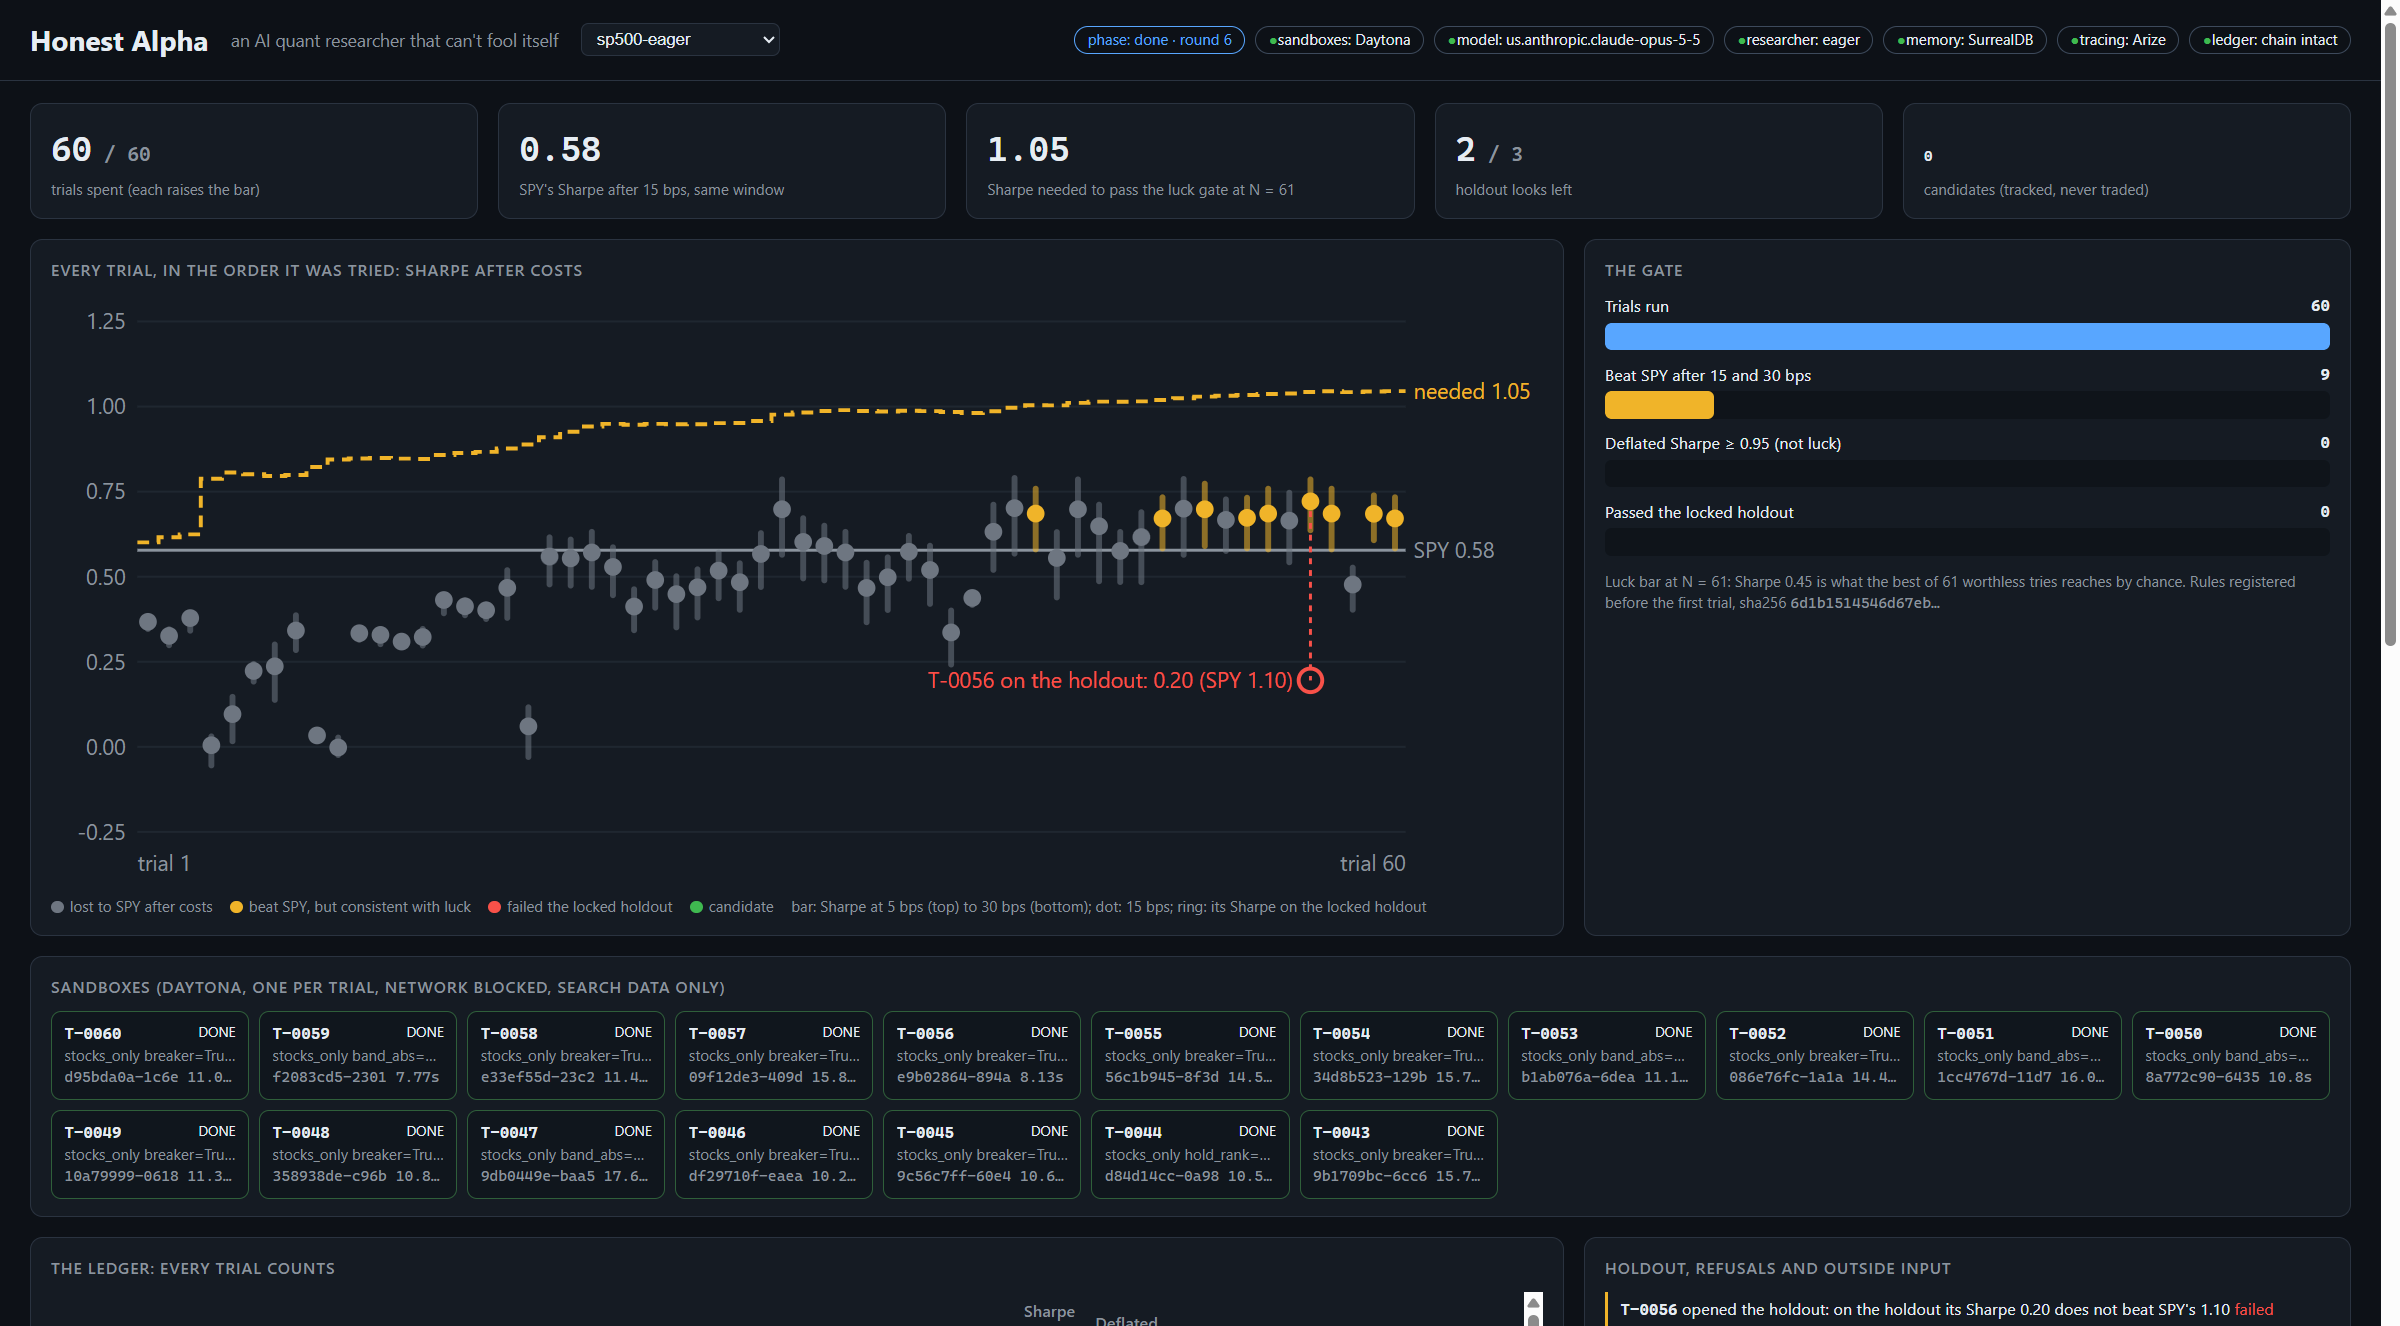
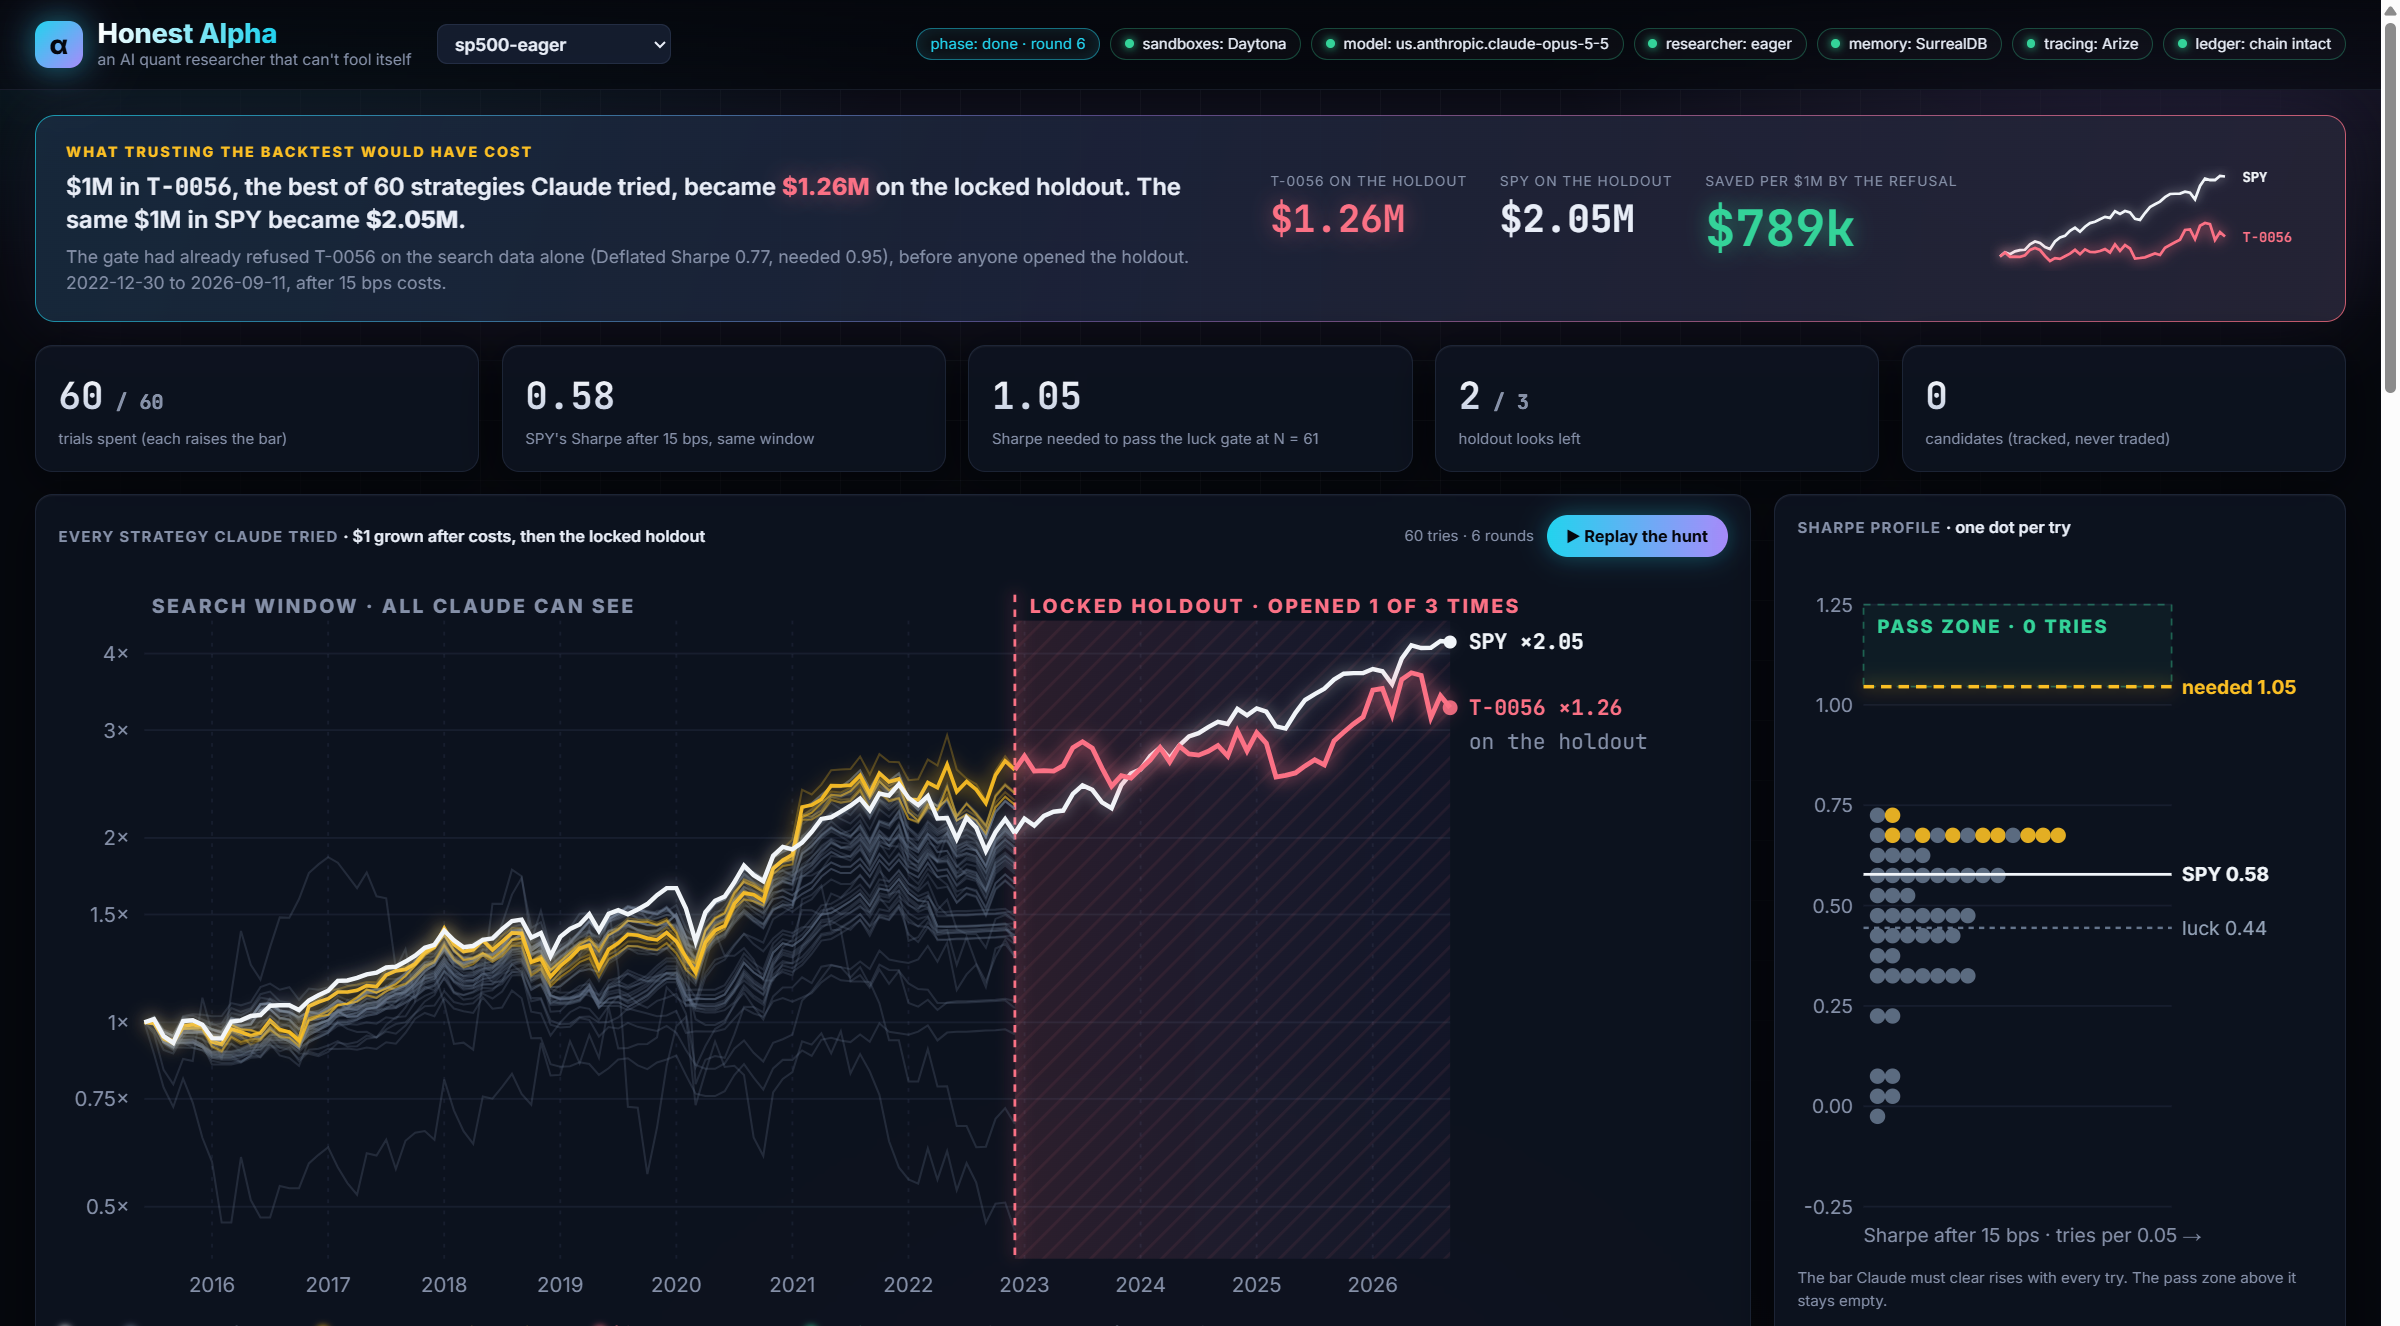
README: screenshot of the new live view

diff --git a/README.md b/README.md
@@ -2,7 +2,7 @@
 
 An AI quant researcher that hunts for trading strategies and can't fool itself.
 
-![The live view of a 60-trial hunt: every trial's Sharpe after costs, SPY's line, the bar a trial must clear rising with every try, and the best trial falling from 0.72 to 0.20 on the locked holdout](docs/live-view.png)
+![The live view of a 60-trial hunt: $1M in the best strategy Claude found became $1.26M on the locked holdout while SPY made $2.05M; every strategy's growth on the search window and the holdout; one dot per try against the bar that rises with every try](docs/live-view.png)
 
 Backtests lie in three ways: they test on today's winners (survivorship), they forget trading costs, and they
 report the best of many tries as if it were the only one. An AI agent makes the third lie worse, because it can
